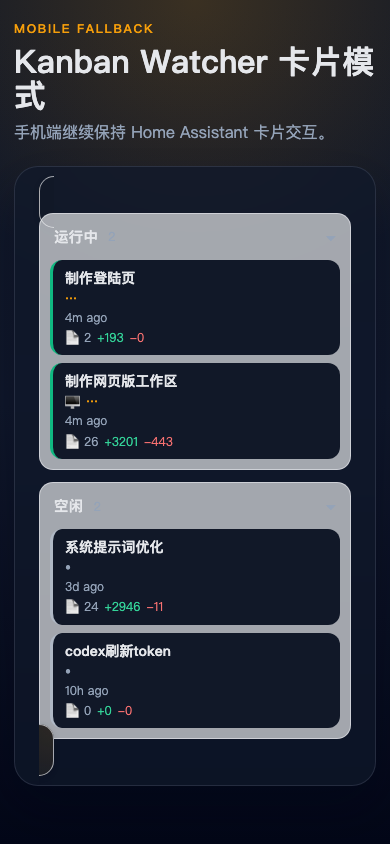
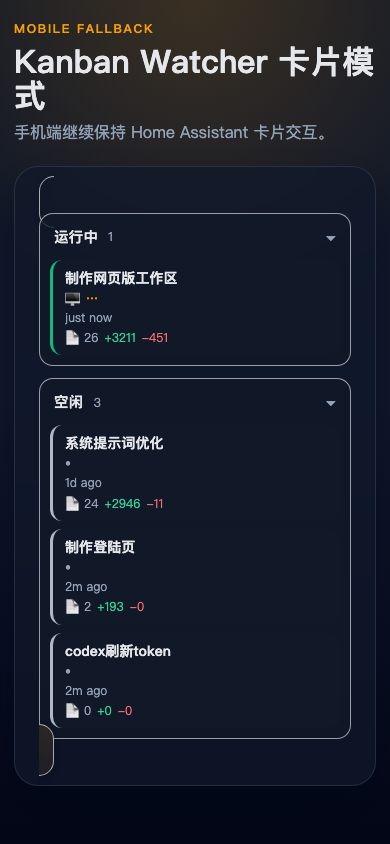
fix: 调整工作区深色背景层级

Changed region(s): [[0.0923, 0.2464, 0.9231, 0.8934]]

diff --git a/src/styles.ts b/src/styles.ts
@@ -4,7 +4,7 @@ export const workspaceSectionListStyles = css`
   .section {
     border-radius: 14px;
     overflow: hidden;
-    background: color-mix(in srgb, var(--secondary-background-color, #f3f4f6) 65%, transparent);
+    background: color-mix(in srgb, var(--secondary-background-color, #111827) 72%, transparent);
     border: 1px solid color-mix(in srgb, var(--divider-color, #e5e7eb) 65%, transparent);
   }
 
@@ -173,7 +173,7 @@ export const workspaceSectionListStyles = css`
     border-radius: 14px;
     text-align: center;
     color: var(--secondary-text-color, #94a3b8);
-    background: color-mix(in srgb, var(--secondary-background-color, #f3f4f6) 65%, transparent);
+    background: color-mix(in srgb, var(--secondary-background-color, #111827) 72%, transparent);
     border: 1px dashed color-mix(in srgb, var(--divider-color, #cbd5e1) 70%, transparent);
   }
 `;
@@ -323,7 +323,7 @@ export const cardStyles = css`
   .section {
     border-radius: 14px;
     overflow: hidden;
-    background: color-mix(in srgb, var(--secondary-background-color, #f3f4f6) 65%, transparent);
+    background: color-mix(in srgb, var(--secondary-background-color, #111827) 72%, transparent);
     border: 1px solid color-mix(in srgb, var(--divider-color, #e5e7eb) 65%, transparent);
   }
 
@@ -487,7 +487,7 @@ export const cardStyles = css`
     border-radius: 14px;
     text-align: center;
     color: var(--secondary-text-color, #94a3b8);
-    background: color-mix(in srgb, var(--secondary-background-color, #f3f4f6) 65%, transparent);
+    background: color-mix(in srgb, var(--secondary-background-color, #111827) 72%, transparent);
     border: 1px dashed color-mix(in srgb, var(--divider-color, #cbd5e1) 70%, transparent);
   }
 
@@ -602,7 +602,7 @@ export const cardStyles = css`
     padding: 6px 8px;
     border-radius: 8px;
     border: 1px solid color-mix(in srgb, var(--divider-color, #cbd5e1) 22%, transparent);
-    background: color-mix(in srgb, var(--secondary-background-color, #f8fafc) 16%, transparent);
+    background: color-mix(in srgb, var(--secondary-background-color, #1e293b) 42%, transparent);
     color: color-mix(in srgb, var(--primary-text-color) 60%, var(--secondary-text-color, #94a3b8));
     text-align: left;
     cursor: pointer;
@@ -676,7 +676,7 @@ export const cardStyles = css`
   .message-tool-detail {
     padding: 8px 10px;
     border-radius: 8px;
-    background: color-mix(in srgb, var(--secondary-background-color, #f8fafc) 28%, transparent);
+    background: color-mix(in srgb, var(--secondary-background-color, #1e293b) 58%, transparent);
     border: 1px solid color-mix(in srgb, var(--divider-color, #e2e8f0) 20%, transparent);
     color: color-mix(in srgb, var(--primary-text-color) 78%, var(--secondary-text-color, #64748b));
     word-break: break-word;
@@ -894,7 +894,7 @@ export const cardStyles = css`
     line-height: 1.35;
     white-space: normal;
     word-break: break-word;
-    background: color-mix(in srgb, var(--secondary-background-color, #f3f4f6) 44%, transparent);
+    background: color-mix(in srgb, var(--secondary-background-color, #1e293b) 72%, transparent);
     color: inherit;
     text-align: left;
   }
@@ -1016,7 +1016,7 @@ export const cardStyles = css`
   }
 
   .message-bubble.is-ai {
-    background: color-mix(in srgb, var(--secondary-background-color, #f3f4f6) 44%, transparent);
+    background: color-mix(in srgb, var(--secondary-background-color, #1e293b) 72%, transparent);
   }
 
   /* 快捷按钮区域 */
@@ -1054,7 +1054,7 @@ export const cardStyles = css`
   }
 
   .quick-button.is-dynamic:hover {
-    background: color-mix(in srgb, var(--secondary-background-color, #f3f4f6) 50%, transparent);
+    background: color-mix(in srgb, var(--secondary-background-color, #1e293b) 72%, transparent);
   }
 
   /* 从消息中提取的选项按钮 */
@@ -1152,7 +1152,7 @@ export const cardStyles = css`
     gap: 4px;
     padding: 8px 10px;
     border-radius: 10px;
-    background: color-mix(in srgb, var(--secondary-background-color, #f3f4f6) 72%, transparent);
+    background: color-mix(in srgb, var(--secondary-background-color, #1e293b) 72%, transparent);
     border: 1px solid color-mix(in srgb, var(--divider-color, #cbd5e1) 60%, transparent);
   }
 

diff --git a/tests/workspace-home.test.ts b/tests/workspace-home.test.ts
@@ -96,6 +96,7 @@ describe("workspace home helpers", () => {
     expect(homeCssText).toContain(".workspace-home-pane-grid");
     expect(homeCssText).toContain("height: min(72vh, 960px)");
     expect(listCssText).toContain("var(--card-background-color, #111827)");
+    expect(listCssText).toContain("var(--secondary-background-color, #111827)");
   });
 
   it("refreshes latest messages for every opened pane on the desktop interval", async () => {

diff --git a/tests/workspace-conversation-pane.test.ts b/tests/workspace-conversation-pane.test.ts
@@ -96,5 +96,6 @@ describe("workspace-conversation-pane", () => {
     expect(cssText).toContain("overflow-y: auto");
     expect(cssText).toContain("height: 100%");
     expect(cssText).toContain("var(--card-background-color, #111827)");
+    expect(cssText).toContain("var(--secondary-background-color, #1e293b)");
   });
 });
